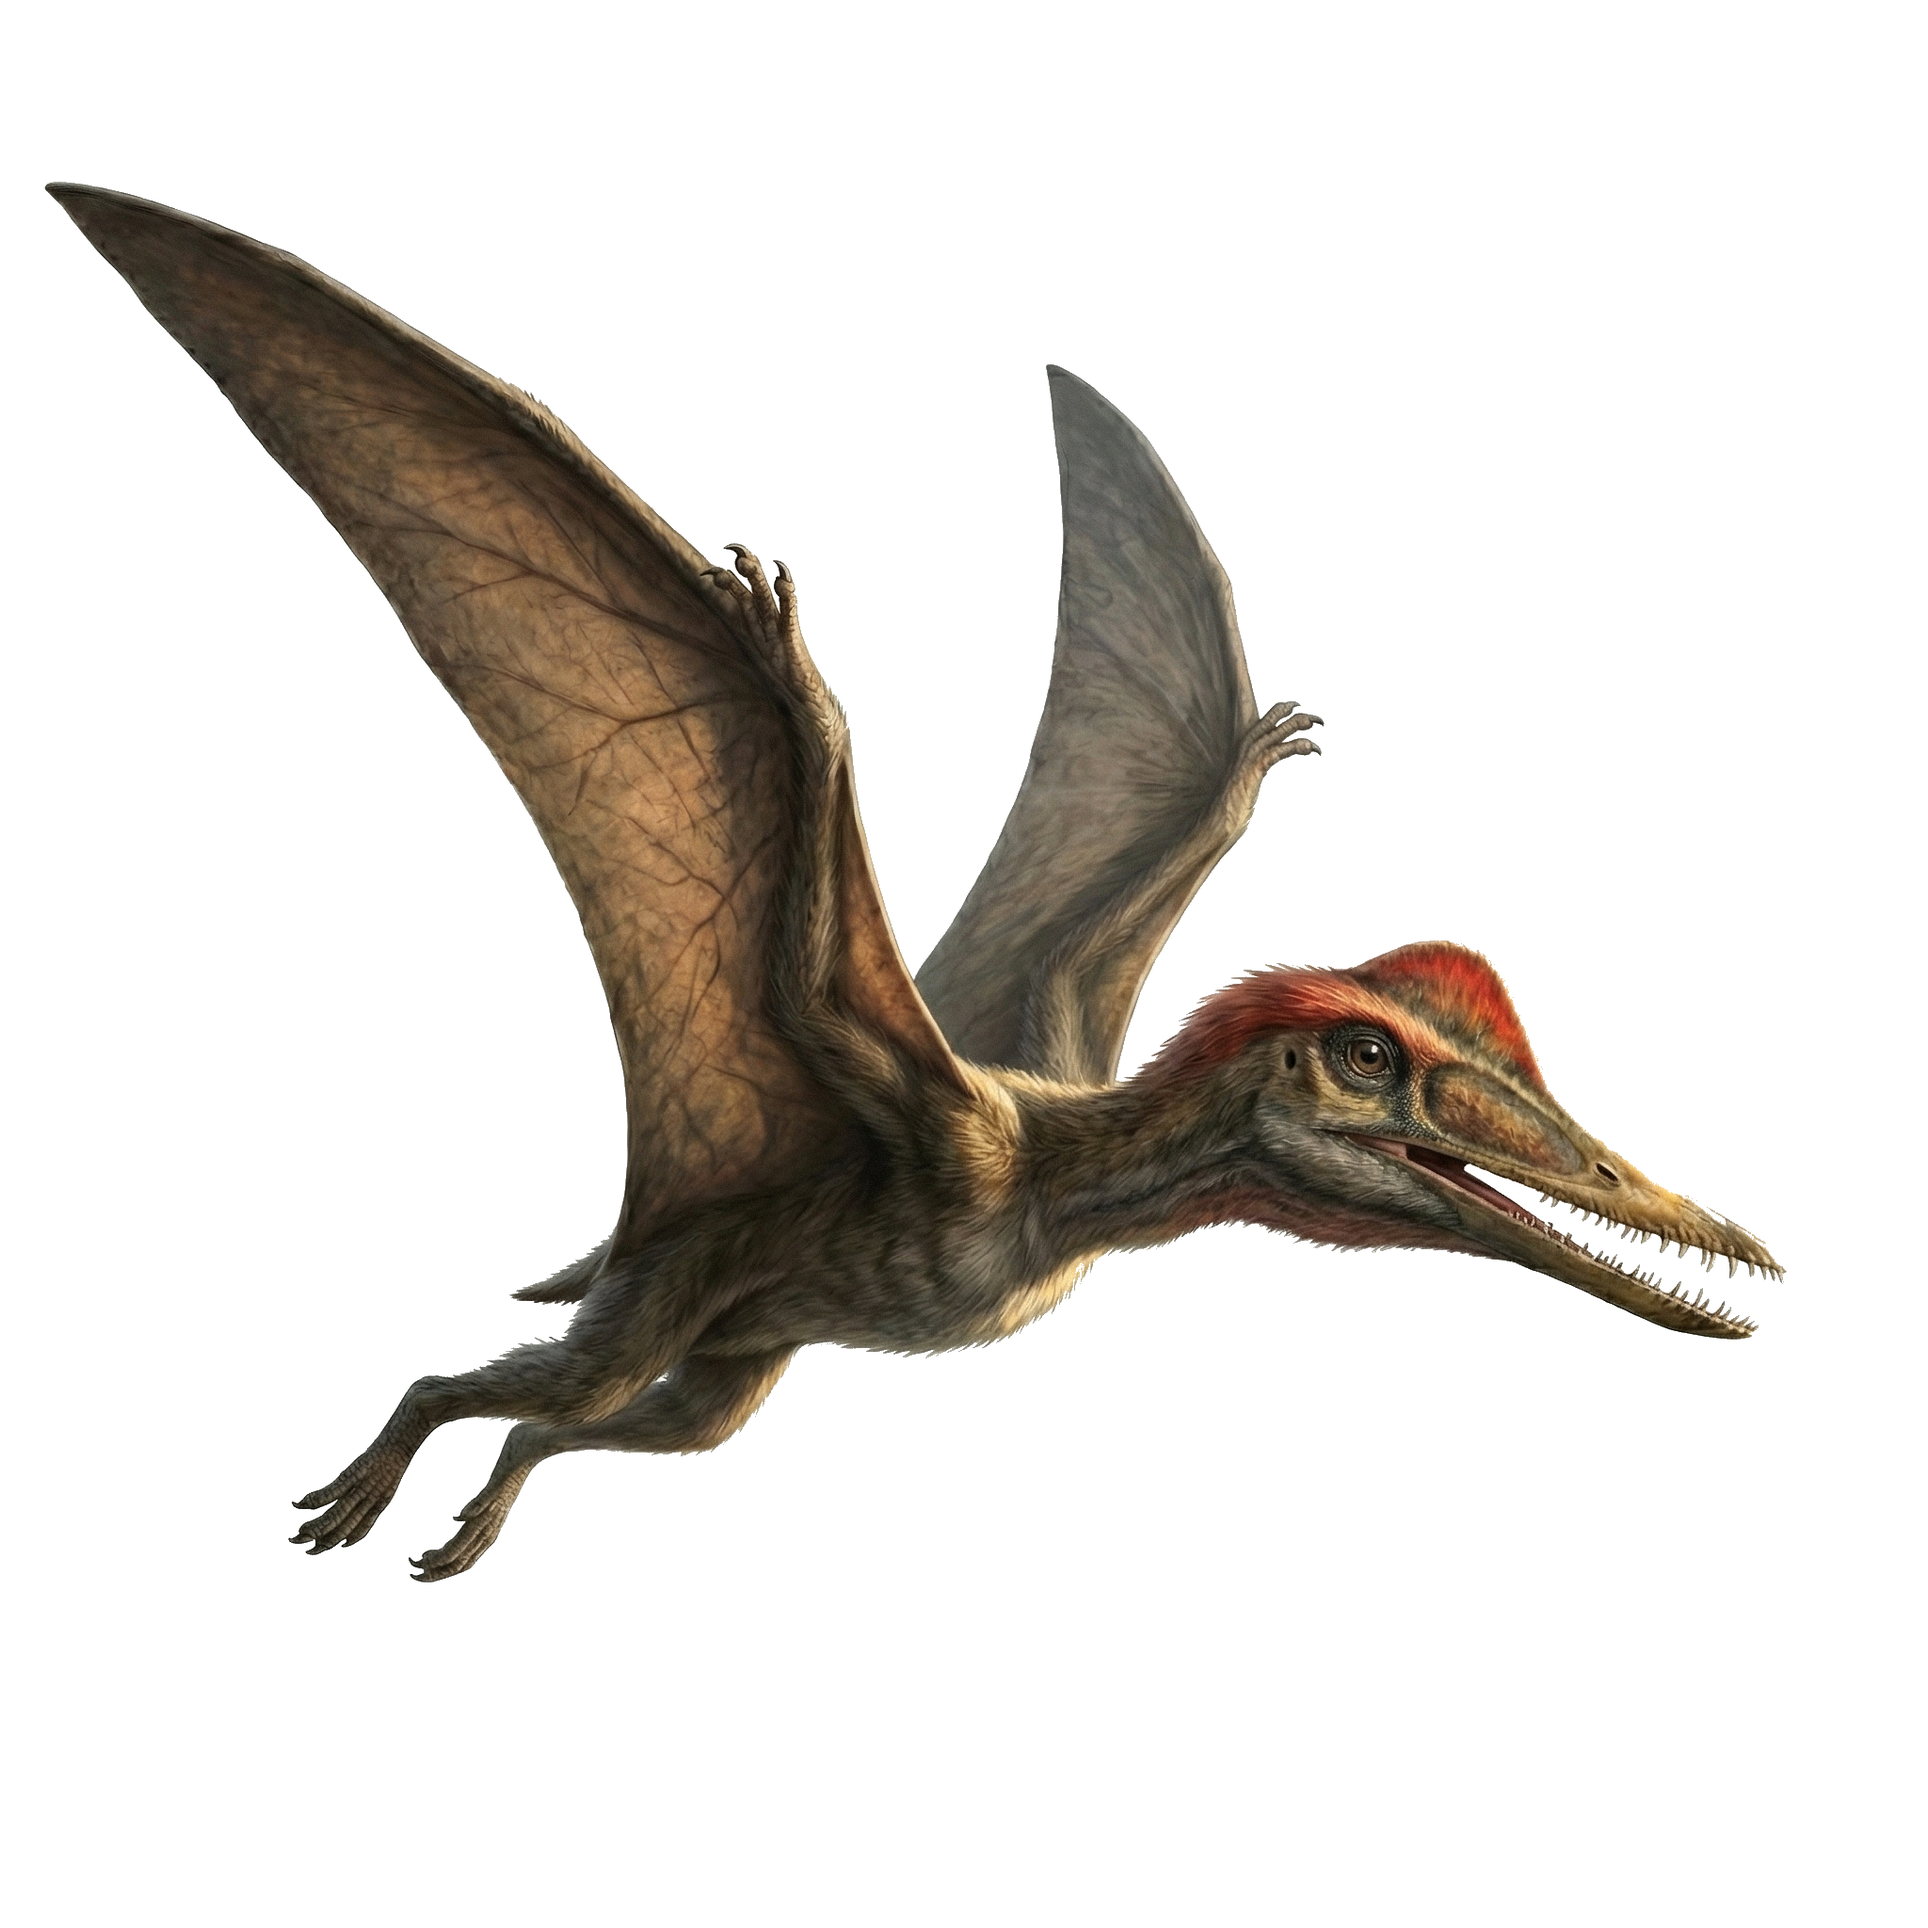
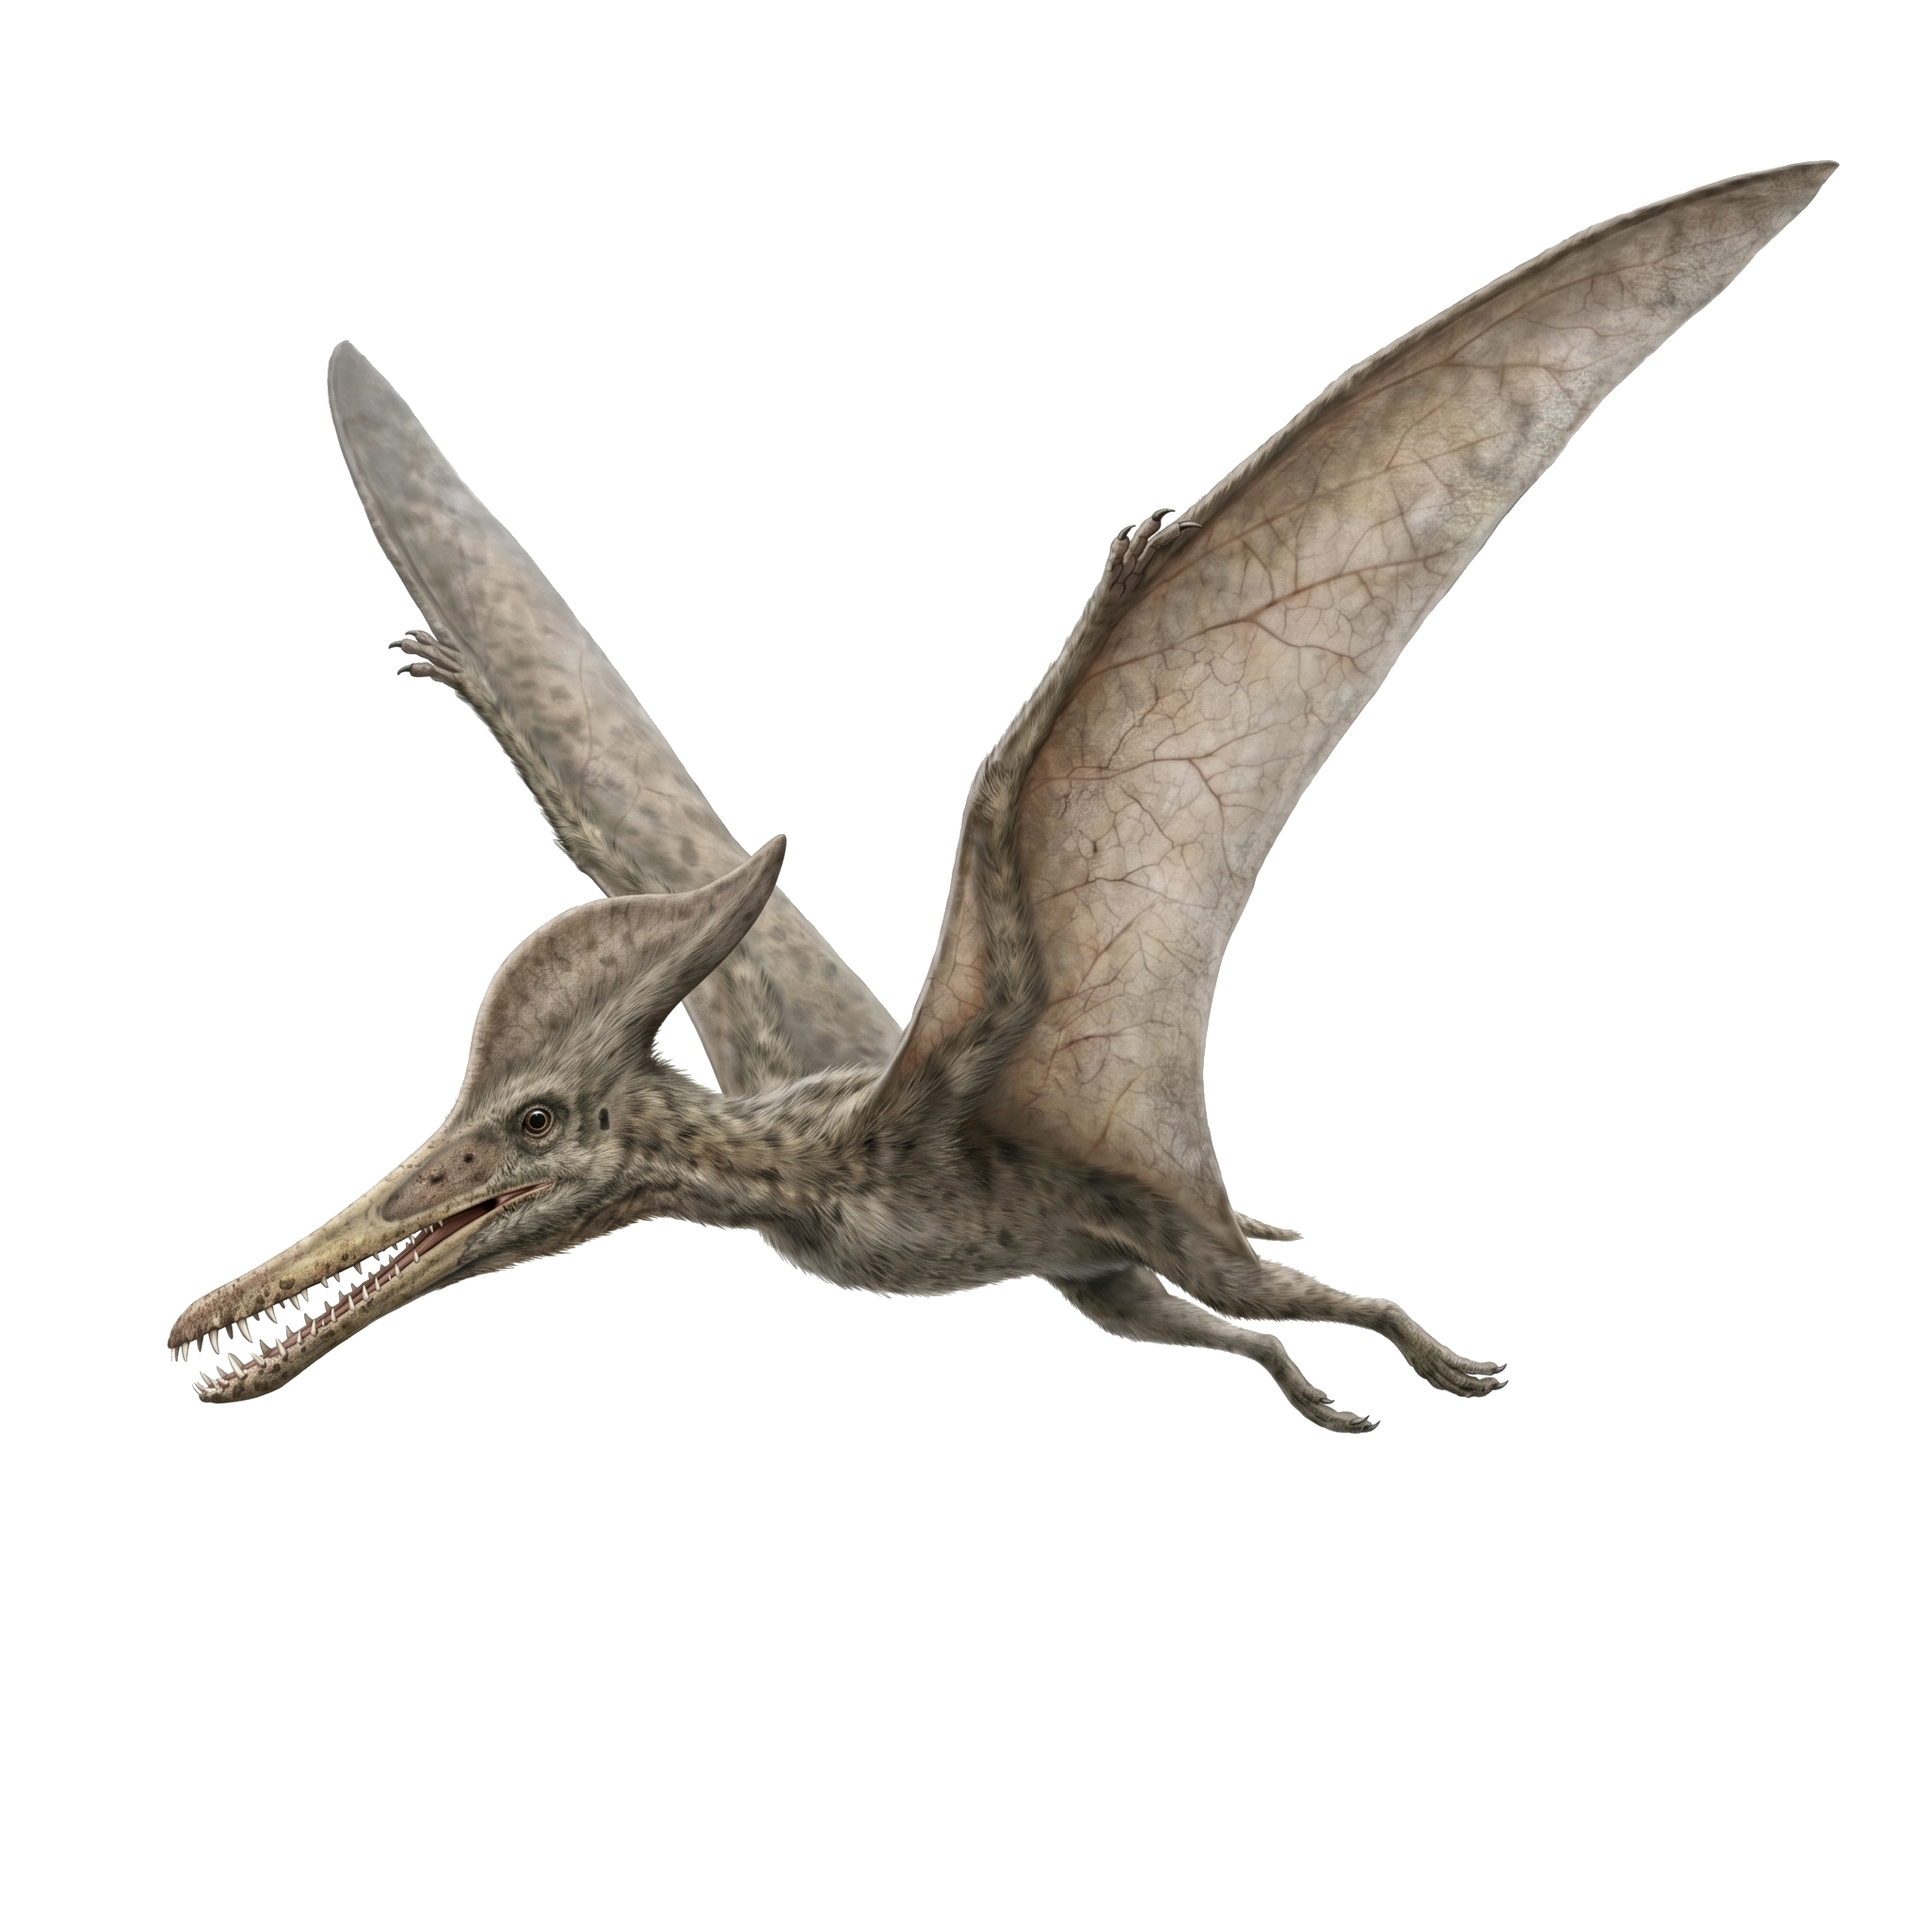
feat: летающие

Changed region(s): [[0.0312, 0.0625, 0.9688, 0.8438]]

diff --git a/src/летающие.html b/src/летающие.html
@@ -1,0 +1,116 @@
+<!doctype html>
+<html lang="ru">
+  <head>
+    <meta charset="UTF-8" />
+    <meta name="viewport" content="width=device-width, initial-scale=1.0" />
+    <title>Летающие динозавры для печати</title>
+    <style>
+      @page {
+        size: A4 landscape;
+        margin: 0;
+      }
+
+      * {
+        box-sizing: border-box;
+      }
+
+      body {
+        margin: 0;
+        padding: 6mm;
+        width: 297mm;
+        height: 210mm;
+        overflow: hidden;
+        font-family: Arial, sans-serif;
+        background-image: linear-gradient(rgba(255, 255, 255, 0.25), rgba(255, 255, 255, 0.25)), url("images/фон.летающие.png");
+        background-size: cover;
+        background-position: top left;
+        background-repeat: no-repeat;
+        background-size: 297mm 210mm;
+      }
+
+      .row {
+        width: 100%;
+        display: grid;
+        grid-template-columns: repeat(4, 1fr);
+        gap: 6mm;
+        align-items: start;
+        margin-top: 5mm;
+      }
+
+      figure {
+        margin: 0;
+        text-align: center;
+        background-color: rgba(255, 255, 255, 0.65);
+        padding: 5.3mm;
+        border-radius: 5.3mm;
+      }
+
+      img {
+        width: 100%;
+        height: auto;
+        display: block;
+        clip-path: inset(2.5mm 0);
+        margin: -2.5mm 0;
+      }
+
+      figcaption {
+        margin-top: 1mm;
+        font-size: 8mm;
+        line-height: 1.2;
+        word-break: break-word;
+        color: rgb(25, 95, 170);
+      }
+
+      h1 {
+        text-align: center;
+        font-size: 16.9mm;
+        margin: 10mm auto 12mm auto;
+        background-color: rgba(255, 255, 255, 0.65);
+        display: table;
+        padding: 2.6mm 10.6mm;
+        border-radius: 5.3mm;
+        color: rgb(25, 95, 170);
+        text-shadow: 0 0 1.6mm rgba(0, 40, 100, 0.4);
+      }
+    </style>
+  </head>
+  <body>
+    <h1>ЛЕТАЮЩИЕ</h1>
+    <main class="row" style="margin-top: 0">
+      <figure>
+        <img src="images/рамфоринх.png" alt="рамфоринх" />
+        <figcaption>рамфоринх</figcaption>
+      </figure>
+      <figure>
+        <img src="images/птеранодон.png" alt="птеранодон" />
+        <figcaption>птеранодон</figcaption>
+      </figure>
+      <figure>
+        <img src="images/тапежара.png" alt="тапежара" />
+        <figcaption>тапежара</figcaption>
+      </figure>
+      <figure>
+        <img src="images/археоптерикс.png" alt="археоптерикс" />
+        <figcaption>археоптерикс</figcaption>
+      </figure>
+    </main>
+    <main class="row">
+      <figure>
+        <img src="images/аланка.png" alt="аланка" />
+        <figcaption>аланка</figcaption>
+      </figure>
+      <figure>
+        <img src="images/птеродактиль.png" alt="птеродактиль" />
+        <figcaption>птеродактиль</figcaption>
+      </figure>
+      <figure>
+        <img src="images/аждархид.png" alt="аждархид" />
+        <figcaption>аждархид</figcaption>
+      </figure>
+      <figure>
+        <img src="images/джунгариптерид.png" alt="джунгариптерид" />
+        <figcaption>джунгариптерид</figcaption>
+      </figure>
+    </main>
+  </body>
+</html>

diff --git a/docs/ai-prompts.md b/docs/ai-prompts.md
@@ -13,3 +13,7 @@
 ### Для водных
 
 Сгенерируй изображение подводного пейзажа времени, когда жили динозавры. Строго без фауны. Размеры изображения - A4 landscape.
+
+## Для летающих
+
+Сгенерируй изображение пейзажа времени, когда жили динозавры. Строго без фауны. С фокусом на небо и просторы. Размеры изображения - A4 landscape.
